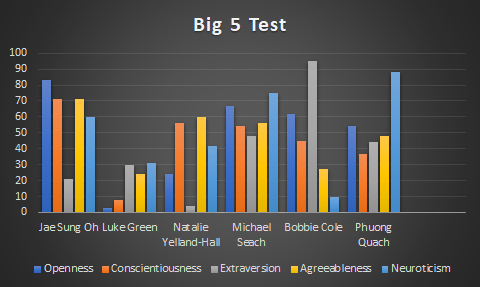
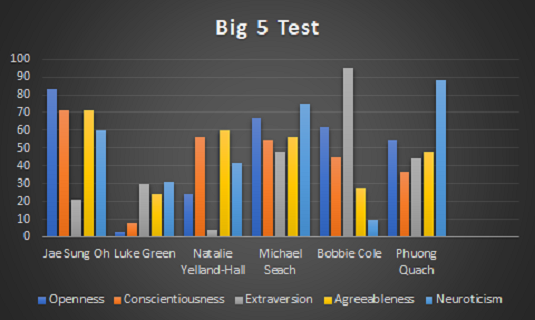
Did.... stuff
Filled out content to personalities page to prevent overcrowing on the about us page.
Fixed the navbar to present as more presentable.

diff --git a/personalitytest.html b/personalitytest.html
@@ -17,7 +17,51 @@
 
 <span onclick="openNav()" style="float: left"><img src="img/open.png" alt="menu button"></span>
 
-<div id="main">
+<div id="mainTwo" style="margin-left:100px">
+<h1 id="topHeading">Myers-Briggs Personality Test</h1>
+<p>The Myers–Briggs Type Indicator (MBTI) is an introspective self-report questionnaire with the 
+purpose of indicating differing psychological<br> preferences in how people perceive the world around 
+them and make decisions. Though the test superficially resembles some psychological <br>
+theories it is commonly classified as pseudoscience, especially as pertains to its supposed 
+predictive abilities.[1]
+</p>
+<img id="randomImg" src="img/Table.png" alt="Table of results">
+<br>
+<h1 id="topHeading">Big 5 Personality Test</h1>
+<p>The Big Five model of personality is widely considered to be the most robust way to describe 
+personality differences. It is the basis of most<br> modern personality research. This 60-question 
+inventory is based on questionnaires used in professional research settings and will evaluate your 
+<br>personality on each of the Five Factors.[2]
+</p>
+<div class="personalityImg">
+<table>
+<th></th>
+<th></th>
+<tr>
+<img src="img/Big5_1.png" alt="Graph of Big 5 Personality Test Results">
+</tr>
+<img src="img/Big5_2.png" alt="Second graph of Big 5 Personality Test Results">
+</tr>
+</table>
+<br>
+<h1 id="topHeading">Learning Styles</h1>
+<p>A relatively simple test designed to determine an individuals most effective message of learning.
+</p>
+<table>
+<th>
+<th>
+<tr>
+<img src="img/LearningStyles_1.png" alt="Graph of learning styles test">
+</tr>
+<tr>
+<img src="img/LearningStyles_2.png" alt="Graph of learning styles test two">
+</tr>
+</table>
+<br>
+<br>
+<h6>References<h6>
+<li>[1]"Myers–Briggs Type Indicator", En.wikipedia.org, 2019. [Online]. Available: https://en.wikipedia.org/wiki/Myers%E2%80%93Briggs_Type_Indicator. [Accessed: 01- Jul- 2019]</li>
+<li>[2]"Big Five Personality Tests", Truity, 2019. [Online]. Available: https://www.truity.com/view/tests/big-five-personality. [Accessed: 01- Jul- 2019]</li>
 </div>
 </body>
 </html>

diff --git a/about.html b/about.html
@@ -11,7 +11,7 @@
   <a href="index.html"><img src="img/home.png"></a>
   <a href="about.html">About Us</a>
   <a href="job_compare.html">Job Compare</a>
-  <a href="personalitytest.html">Who's Mental</a>
+  <a href="personalitytest.html">Personalities</a>
   <a href="#">Contact</a>
 </div>
 
@@ -292,22 +292,6 @@ I do not have any professional experience in IT apart from being your average da
 </table>
 </div>
 </div>
-<hr>
-<div id="left">
-<div class="aboutPeopleBox"><!--Myers Briggs-->
-
-</div>
-<h2 class="names">Myers-Briggs Test</h2>
-</div>
-<div id="left">
-<img src="img/Table.png" alt="Table of results">
-</div>
-<div id="right">
-
-<p class="aboutUs" style="width:50%">
-
-</p>
-<hr>
 </div>
 </body>
 </html>

diff --git a/index.html b/index.html
@@ -14,7 +14,7 @@
   <a href="index.html"><img src="img/home.png"></a>
   <a href="about.html">About Us</a>
   <a href="job_compare.html">Job Compare</a>
-  <a href="personalitytest.html">Who's Mental</a>
+  <a href="personalitytest.html">Personalities</a>
   <a href="#">Contact</a>
 </div>
 

diff --git a/job_compare.html b/job_compare.html
@@ -11,7 +11,7 @@
   <a href="index.html"><img src="img/home.png"></a>
   <a href="about.html">About Us</a>
   <a href="job_compare.html">Job Compare</a>
-  <a href="personalitytest.html">Who's Mental</a>
+  <a href="personalitytest.html">Personalities</a>
   <a href="#">Contact</a>
 </div>
 

diff --git a/rsc/style.css b/rsc/style.css
@@ -100,3 +100,10 @@ div.desc {
   overflow: hidden;
   background-color: #f1f1f1;
 }
+
+.personalityBox {
+	display: flex;
+	margin:20px;
+}
+
+
